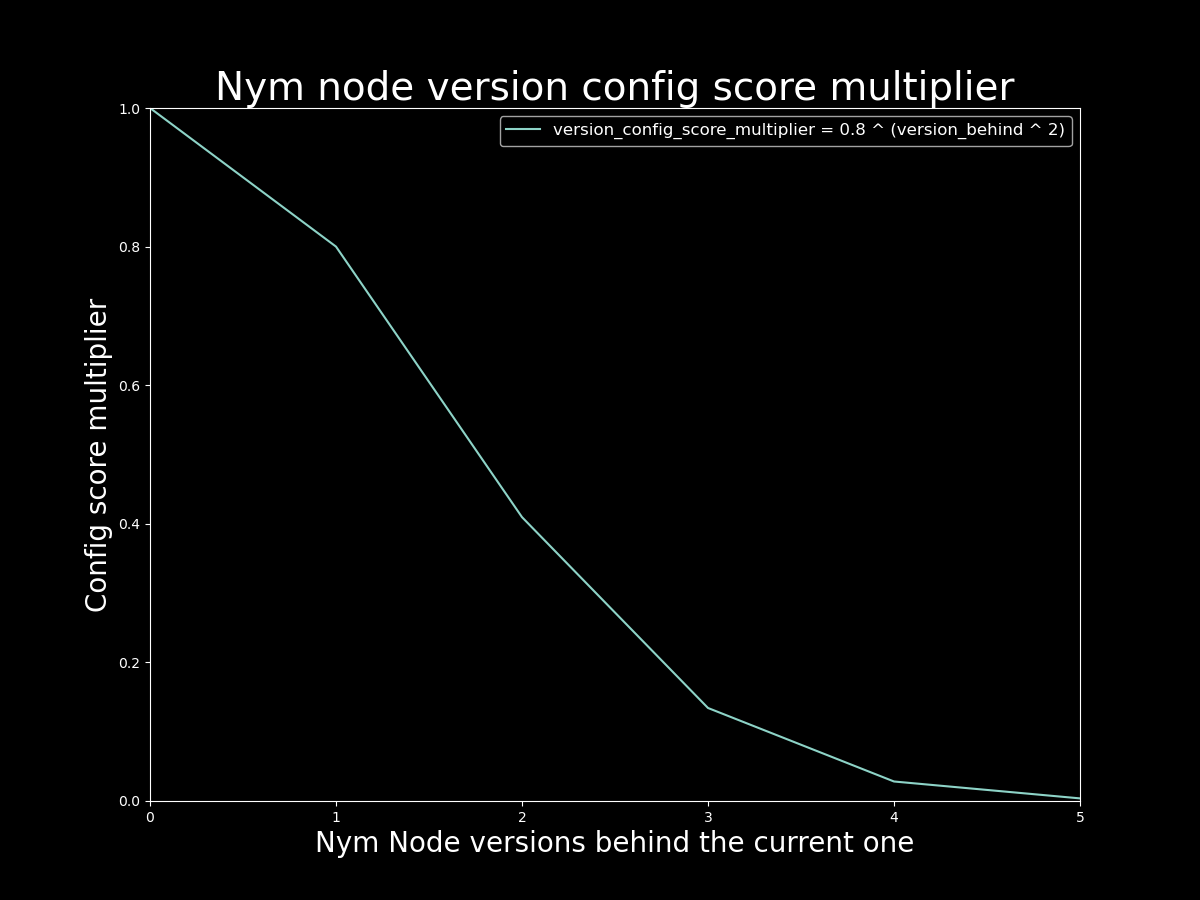
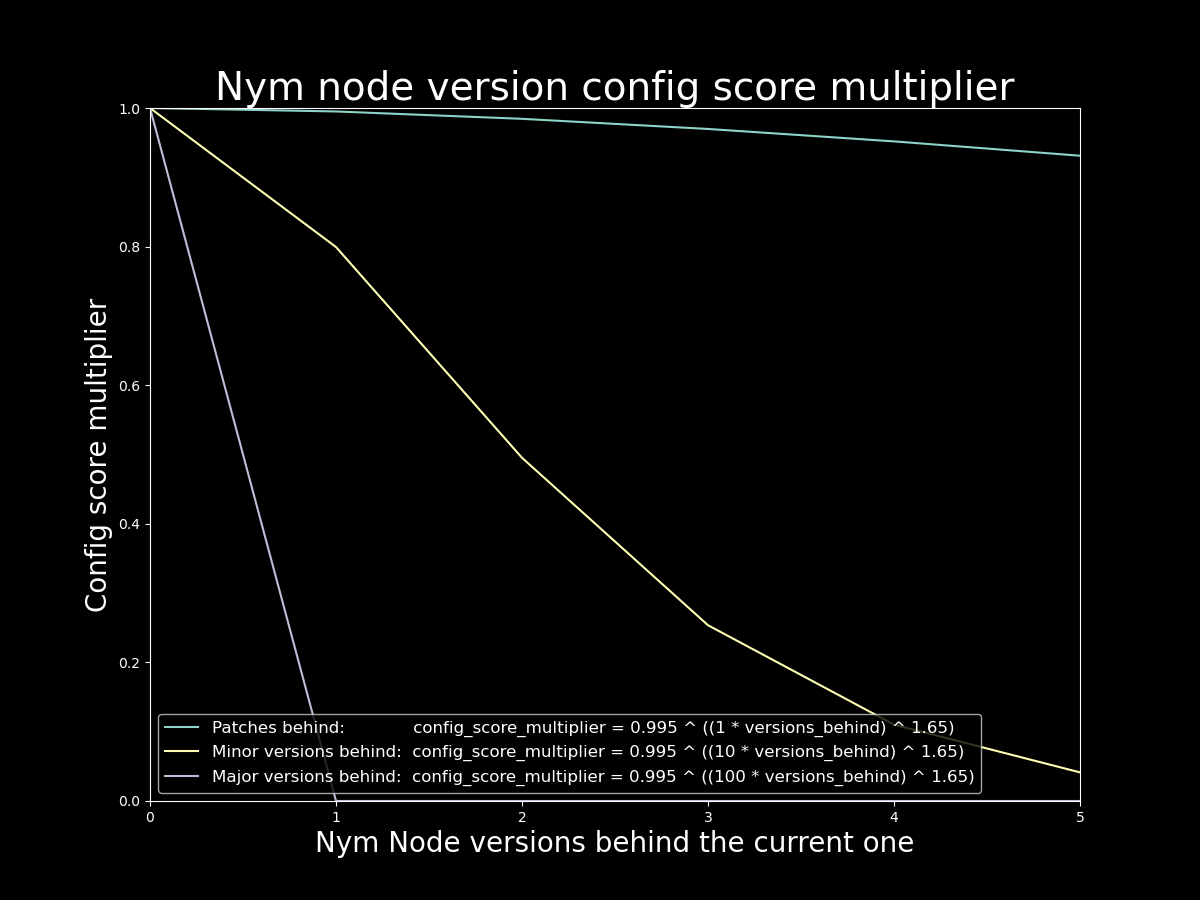
update version graph and selection

diff --git a/documentation/scripts/rewards_version_graph.py b/documentation/scripts/rewards_version_graph.py
@@ -6,14 +6,19 @@ import numpy as np
 
 plt.style.use('dark_background')
 
-a = 0.8
-b = 2
+a = 0.995
+b = 1.65
 
 # make data
-x = [0,1,2,3,4,5]
-y = [a**(n**b) for n in x]
-#x2 = np.linspace(0, 10, 25)
-#y2 = 4 + 1 * np.sin(2 * x2)
+x1 = [0,1,2,3,4,5]
+x2 = x1
+x3 = x1
+x4 = x1
+
+y1 = [a**((v*1)**b) for v in x1]
+y2 = [a**((v*10)**b) for v in x1]
+y3 = [a**((v*100)**b) for v in x1]
+y4 = [a**((11)**b) for v in x1]
 
 f = plt.figure()
 f.set_figwidth(12)
@@ -21,8 +26,9 @@ f.set_figheight(9)
 
 # plot
 #fig, ax = plt.subplots()
-plt.plot(x,y, label=f'version_config_score_multiplier = {a} ^ (version_behind ^ {b})')
-
+plt.plot(x1,y1, label=f'Patches behind:             config_score_multiplier = {a} ^ ((1 * versions_behind) ^ {b})')
+plt.plot(x2,y2, label=f'Minor versions behind:  config_score_multiplier = {a} ^ ((10 * versions_behind) ^ {b})')
+plt.plot(x3,y3, label=f'Major versions behind:  config_score_multiplier = {a} ^ ((100 * versions_behind) ^ {b})')
 #ax.plot(x, y, linewidth=2.0)
 
 
